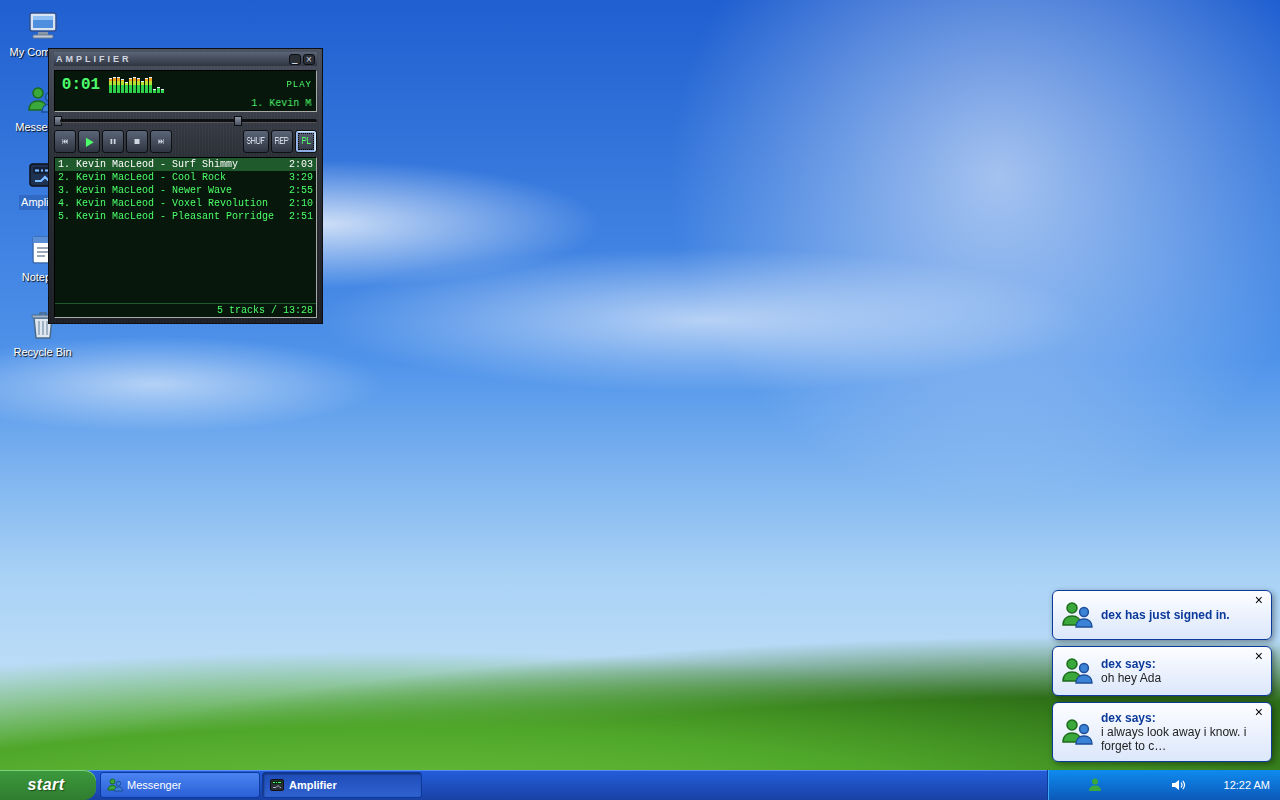
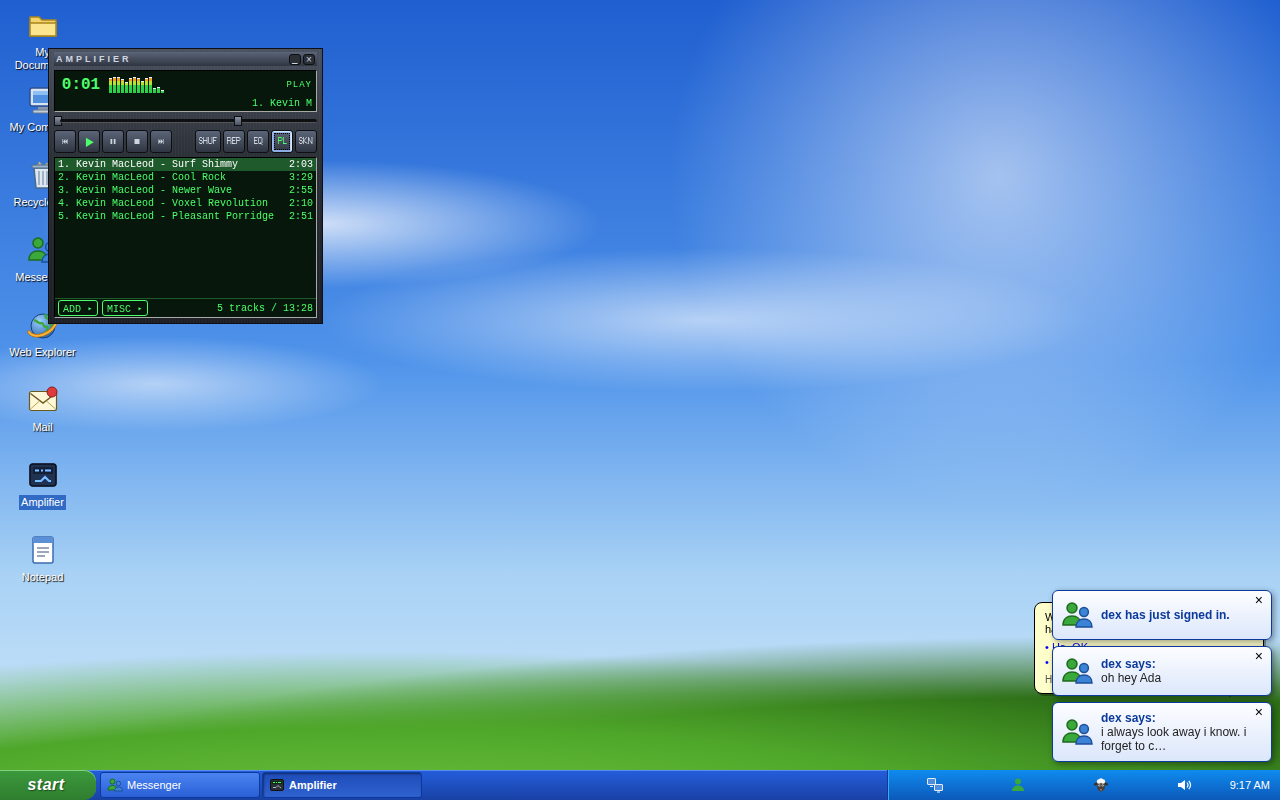
P7-03: README, screenshots, release notes
README v0.2 features + 8-shot screenshot grid, release notes v0.2.0, CREDITS globs for new assets; screenshots spec extended

diff --git a/tests/e2e/screenshots.spec.ts b/tests/e2e/screenshots.spec.ts
@@ -1,5 +1,5 @@
 import { expect, test } from '@playwright/test';
-import { closeNudgeChats, logIn } from './helpers';
+import { closeNudgeChats, go, logIn, openFromStart } from './helpers';
 
 // Regenerates the README images: npx playwright test --grep @screenshots
 const DIR = 'docs/screenshots';
@@ -37,7 +37,7 @@ function toneWav(seconds: number): Buffer {
 }
 
 test('README screenshots @screenshots', async ({ page }) => {
-  test.setTimeout(90_000);
+  test.setTimeout(180_000);
 
   const wav = toneWav(60);
   await page.route('**/music/*.mp3', (route) =>
@@ -53,6 +53,11 @@ test('README screenshots @screenshots', async ({ page }) => {
   await logIn(page);
   await page.mouse.move(900, 700);
   await page.screenshot({ path: `${DIR}/desktop.png` });
+
+  // Stapley's greeting would sit over every later shot.
+  const stapley = page.locator('[data-assistant-balloon]');
+  await expect(stapley).toContainText("I'm Stapley", { timeout: 10_000 });
+  await stapley.getByRole('button', { name: 'No thanks' }).click();
 
   await page.getByRole('option', { name: 'Messenger' }).dblclick();
   await page.getByRole('button', { name: 'Sign in' }).click();
@@ -79,4 +84,62 @@ test('README screenshots @screenshots', async ({ page }) => {
   await expect(amp.getByTestId('playlist')).toBeVisible();
   await page.mouse.move(900, 700);
   await page.screenshot({ path: `${DIR}/amplifier.png` });
+
+  await amp.getByRole('button', { name: 'Close' }).click();
+
+  // Web Explorer on the Searchly homepage, then a Spaceport profile.
+  // Messenger's sign-in already dialed up, so the browser opens online.
+  await page.getByRole('option', { name: 'Web Explorer' }).dblclick();
+  const browser = page.getByRole('region', { name: /Web Explorer$/ });
+  await expect(
+    browser.getByRole('button', { name: 'Searchly Search' }),
+  ).toBeVisible();
+  await page.mouse.move(900, 700);
+  await page.waitForTimeout(500);
+  await page.screenshot({ path: `${DIR}/browser.png` });
+  await go(browser, 'spaceport.example/jess');
+  await page.mouse.move(900, 700);
+  await page.waitForTimeout(500);
+  await page.screenshot({ path: `${DIR}/spaceport.png` });
+  await browser.getByRole('button', { name: 'Close' }).click();
+
+  // Paint with a small drawing.
+  await openFromStart(page, 'Paint');
+  const paint = page.getByRole('region', { name: /Paint$/ });
+  const canvas = paint.getByRole('img', { name: 'Picture' });
+  const box = (await canvas.boundingBox())!;
+  await paint.getByRole('button', { name: 'Color #ff0000' }).click();
+  await paint.getByRole('button', { name: 'Rectangle', exact: true }).click();
+  await paint.getByRole('button', { name: 'Fill only' }).click();
+  await page.mouse.move(box.x + 40, box.y + 60);
+  await page.mouse.down();
+  await page.mouse.move(box.x + 160, box.y + 140, { steps: 4 });
+  await page.mouse.up();
+  await paint.getByRole('button', { name: 'Ellipse', exact: true }).click();
+  await paint.getByRole('button', { name: 'Color #0000ff' }).click();
+  await page.mouse.move(box.x + 120, box.y + 100);
+  await page.mouse.down();
+  await page.mouse.move(box.x + 260, box.y + 190, { steps: 4 });
+  await page.mouse.up();
+  await page.mouse.move(900, 700);
+  await page.screenshot({ path: `${DIR}/paint.png` });
+  await paint.getByRole('button', { name: 'Close' }).click();
+  await page.getByRole('button', { name: 'No', exact: true }).click();
+
+  // Mines after the first click opens a patch of the board.
+  await openFromStart(page, 'Mines');
+  const mines = page.getByRole('region', { name: /Mines$/ });
+  const field = mines.getByRole('group', { name: 'Mine field' });
+  await field.locator('[data-index="40"]').click();
+  await page.mouse.move(900, 700);
+  await page.screenshot({ path: `${DIR}/mines.png` });
+  await mines.getByRole('button', { name: 'Close' }).click();
+
+  // Hen Hunt mid-round.
+  await openFromStart(page, 'Hen Hunt');
+  const hen = page.getByRole('region', { name: /Hen Hunt$/ });
+  await hen.getByRole('button', { name: 'Play' }).click();
+  await expect(hen.getByRole('img', { name: /Hen Hunt field/ })).toBeVisible();
+  await page.waitForTimeout(2500);
+  await page.screenshot({ path: `${DIR}/henhunt.png` });
 });

diff --git a/CREDITS.md b/CREDITS.md
@@ -9,12 +9,14 @@ No Microsoft, MSN, Winamp, MySpace or Netlog logos, icons, sounds, wallpapers, s
 
 Every file in `src/assets/` and `public/` that was not written by the project gets a row in the table. Self-made assets are listed once as "original work".
 
-| File                                                                  | Source                                                                                                | Author                    | License                                                                                                                                                                        |
-| --------------------------------------------------------------------- | ----------------------------------------------------------------------------------------------------- | ------------------------- | ------------------------------------------------------------------------------------------------------------------------------------------------------------------------------ |
-| `src/assets/icons/{mycomputer,notepad,recyclebin,dialup,browser,paint,photobooth,henhunt,pinball,wrecker}-{16,32}.svg` | This repository                                                                                       | still-online contributors | original work                                                                                                                                                                  |
-| `src/assets/emoticons/*.svg`                                          | This repository                                                                                       | still-online contributors | original work                                                                                                                                                                  |
-| `public/music/surf-shimmy.mp3`                                        | [incompetech.com](https://incompetech.com/music/royalty-free/mp3-royaltyfree/Surf%20Shimmy.mp3)       | Kevin MacLeod             | CC BY 4.0: `"Surf Shimmy" by Kevin MacLeod (incompetech.com), licensed under Creative Commons: By Attribution 4.0 License, https://creativecommons.org/licenses/by/4.0/`       |
-| `public/music/cool-rock.mp3`                                          | [incompetech.com](https://incompetech.com/music/royalty-free/mp3-royaltyfree/Cool%20Rock.mp3)         | Kevin MacLeod             | CC BY 4.0: `"Cool Rock" by Kevin MacLeod (incompetech.com), licensed under Creative Commons: By Attribution 4.0 License, https://creativecommons.org/licenses/by/4.0/`         |
-| `public/music/newer-wave.mp3`                                         | [incompetech.com](https://incompetech.com/music/royalty-free/mp3-royaltyfree/Newer%20Wave.mp3)        | Kevin MacLeod             | CC BY 4.0: `"Newer Wave" by Kevin MacLeod (incompetech.com), licensed under Creative Commons: By Attribution 4.0 License, https://creativecommons.org/licenses/by/4.0/`        |
-| `public/music/voxel-revolution.mp3`                                   | [incompetech.com](https://incompetech.com/music/royalty-free/mp3-royaltyfree/Voxel%20Revolution.mp3)  | Kevin MacLeod             | CC BY 4.0: `"Voxel Revolution" by Kevin MacLeod (incompetech.com), licensed under Creative Commons: By Attribution 4.0 License, https://creativecommons.org/licenses/by/4.0/`  |
-| `public/music/pleasant-porridge.mp3`                                  | [incompetech.com](https://incompetech.com/music/royalty-free/mp3-royaltyfree/Pleasant%20Porridge.mp3) | Kevin MacLeod             | CC BY 4.0: `"Pleasant Porridge" by Kevin MacLeod (incompetech.com), licensed under Creative Commons: By Attribution 4.0 License, https://creativecommons.org/licenses/by/4.0/` |
+| File                                                                                                                                                                    | Source                                                                                                | Author                    | License                                                                                                                                                                        |
+| ----------------------------------------------------------------------------------------------------------------------------------------------------------------------- | ----------------------------------------------------------------------------------------------------- | ------------------------- | ------------------------------------------------------------------------------------------------------------------------------------------------------------------------------ |
+| `src/assets/icons/*.svg` (every app, folder, file-type and recycle-bin icon, 16 and 32 px)                                                                              | This repository                                                                                       | still-online contributors | original work                                                                                                                                                                  |
+| `src/os/startmenu/avatar.svg` (default user picture)                                                                                                                    | This repository                                                                                       | still-online contributors | original work                                                                                                                                                                  |
+| Wallpapers, screensavers, Amplifier skins, procedural photos, game art, desktop pet, Stapley and all sounds (`src/os/wallpapers/`, `src/os/screensaver/`, `src/apps/*`) | This repository                                                                                       | still-online contributors | original work (CSS, canvas drawing and Web Audio synthesis, no external files)                                                                                                 |
+| `src/assets/emoticons/*.svg`                                                                                                                                            | This repository                                                                                       | still-online contributors | original work                                                                                                                                                                  |
+| `public/music/surf-shimmy.mp3`                                                                                                                                          | [incompetech.com](https://incompetech.com/music/royalty-free/mp3-royaltyfree/Surf%20Shimmy.mp3)       | Kevin MacLeod             | CC BY 4.0: `"Surf Shimmy" by Kevin MacLeod (incompetech.com), licensed under Creative Commons: By Attribution 4.0 License, https://creativecommons.org/licenses/by/4.0/`       |
+| `public/music/cool-rock.mp3`                                                                                                                                            | [incompetech.com](https://incompetech.com/music/royalty-free/mp3-royaltyfree/Cool%20Rock.mp3)         | Kevin MacLeod             | CC BY 4.0: `"Cool Rock" by Kevin MacLeod (incompetech.com), licensed under Creative Commons: By Attribution 4.0 License, https://creativecommons.org/licenses/by/4.0/`         |
+| `public/music/newer-wave.mp3`                                                                                                                                           | [incompetech.com](https://incompetech.com/music/royalty-free/mp3-royaltyfree/Newer%20Wave.mp3)        | Kevin MacLeod             | CC BY 4.0: `"Newer Wave" by Kevin MacLeod (incompetech.com), licensed under Creative Commons: By Attribution 4.0 License, https://creativecommons.org/licenses/by/4.0/`        |
+| `public/music/voxel-revolution.mp3`                                                                                                                                     | [incompetech.com](https://incompetech.com/music/royalty-free/mp3-royaltyfree/Voxel%20Revolution.mp3)  | Kevin MacLeod             | CC BY 4.0: `"Voxel Revolution" by Kevin MacLeod (incompetech.com), licensed under Creative Commons: By Attribution 4.0 License, https://creativecommons.org/licenses/by/4.0/`  |
+| `public/music/pleasant-porridge.mp3`                                                                                                                                    | [incompetech.com](https://incompetech.com/music/royalty-free/mp3-royaltyfree/Pleasant%20Porridge.mp3) | Kevin MacLeod             | CC BY 4.0: `"Pleasant Porridge" by Kevin MacLeod (incompetech.com), licensed under Creative Commons: By Attribution 4.0 License, https://creativecommons.org/licenses/by/4.0/` |

diff --git a/README.md b/README.md
@@ -2,7 +2,7 @@
 
 A browser-based nostalgia simulator recreating Windows XP and the social internet of 2007 through MSN, Netlog, MySpace, Winamp, and a living fictional desktop.
 
-> **v0.1 — playable MVP.** Play it now: **<https://drilonrecica.github.io/still-online/>**
+> **v0.2 — the living internet.** Play it now: **<https://drilonrecica.github.io/still-online/>**
 
 ![The still-online desktop](docs/screenshots/desktop.png)
 
@@ -14,21 +14,57 @@ It isn't meant to be a static museum piece. The desktop is meant to feel *lived 
 
 ## What's in it
 
-- **Windows XP–style desktop**: boot and login screens, start menu, taskbar, draggable and resizable windows, desktop icons and an original wallpaper
-- **Messenger**: an MSN-style client with six fictional friends, statuses, personal messages, emoticons, nudges, sign-in toasts and a "now playing" line. Conversations continue over time, and friends waiting for your reply are marked and flash in the taskbar
-- **Amplifier**: a Winamp-style music player with an original skin, playlist, seek and volume, shuffle/repeat and a visualizer
-- **Notepad** and the usual desktop furniture
+### Desktop
 
-| Messenger | Amplifier |
+- **Windows XP–style shell**: boot and login screens, Start menu with an All Programs flyout, taskbar and tray (mute, network, clock), draggable/resizable windows, desktop icons, synthesized system sounds
+- **A world that moves on**: the in-game day advances after a shutdown or a new real date, and each day brings new chats, mail, guestbook entries and profile comments (days 1–5 are scripted; later days keep the day-5 state)
+- **Display Properties**: eleven procedurally drawn wallpapers (nine homages and two easter eggs), Blue / Olive / Silver appearance, and screensavers (Pipes, Flying Panes, Marquee, My Pictures Slideshow)
+- **Explorer**: My Documents, My Pictures and My Music on a persistent virtual file system, plus a Recycle Bin you can restore from
+- **Balloon tips**, a dial-up connection dialog with a synthesized modem handshake, and a **Disk Cleanup** that scans forever and frees nothing
+- **Notepad** that opens and saves files in My Documents
+
+### Messenger
+
+- Six fictional friends with statuses, personal messages, emoticons (including your own, made from your pictures), nudges, winks, sign-in toasts and a "now playing" line
+- Conversations continue over days; friends react to the music you play and to your game scores
+- Away messages with a "while you were away" summary, a per-contact **Message History** and display pictures from My Pictures
+
+### Internet
+
+- **Web Explorer** with history, favorites and a fully fictional, local web: **Searchly** (search over every page), **Spaceport** profiles for each friend and you (Top 8, comment wall, profile song), a cursed 2003 fan page, a gossip blog, a school site and more
+- **Mail** with a new batch of messages per day: chain letters, spam, family and friends, with replies to what you send
+- **TuneMole**, a fake peer-to-peer client with slow, jittery downloads that lands tracks in My Music and the Amplifier
+
+### Creative
+
+- **Paint**: classic tools, undo, open/save to My Pictures, set as wallpaper or display picture
+- **Snapshot Booth**: webcam photos with filters, or a cartoon avatar if you have no camera. The webcam stays local: nothing is recorded or uploaded, and photos are saved only in this browser
+- **Amplifier**: five CC BY tracks, three skins, windowshade mode, a ten-band equalizer, an editable playlist and a visualizer
+
+### Games and extras
+
+- **Mines**, **Hen Hunt** (a shooting gallery), **Star Pinball** and **Desktop Wrecker** (smash the desktop, then Repair it), each with high scores
+- **Fluff** the desktop sheep and **Stapley**, an original stapler assistant with contextual tips
+
+| Desktop | Messenger |
 | --- | --- |
-| ![Messenger contact list](docs/screenshots/messenger.png) | ![Amplifier with its playlist](docs/screenshots/amplifier.png) |
+| ![The desktop](docs/screenshots/desktop.png) | ![Messenger contact list](docs/screenshots/messenger.png) |
+| **Amplifier** | **Web Explorer** |
+| ![Amplifier with its playlist](docs/screenshots/amplifier.png) | ![Web Explorer on Searchly](docs/screenshots/browser.png) |
+| **Spaceport** | **Paint** |
+| ![A Spaceport profile](docs/screenshots/spaceport.png) | ![Paint with a drawing](docs/screenshots/paint.png) |
+| **Mines** | **Hen Hunt** |
+| ![Mines mid-game](docs/screenshots/mines.png) | ![Hen Hunt mid-round](docs/screenshots/henhunt.png) |
 
 ## Planned
 
-These are not built yet:
+Not built yet:
 
-- **Netlog / MySpace–style profiles**: customizable profile pages, friend lists, comments and profile songs
-- **A living world**: fictional characters and events that change over time, so each visit feels a little different
+- Content beyond day 5: stories for later days currently repeat the day-5 state
+- More friends, sites and games
+- Mobile and touch layouts (small screens only get a notice)
+
+Ideas are welcome in the [issues](https://github.com/drilonrecica/still-online/issues).
 
 ## Run locally
 

diff --git a/docs/release-notes-v0.2.0.md b/docs/release-notes-v0.2.0.md
@@ -1,0 +1,36 @@
+# still-online v0.2.0
+
+The living internet: v0.1's desktop and Messenger grow into a small, fully local 2007, with a web to browse, mail to read, things to make and games to play, and days that actually pass.
+
+## Highlights
+
+- **Days pass.** Shut down and come back, or return on a new real date, and the world moves on: new chats, mail, guestbook entries and profile comments for days 1–5.
+- **A fictional web.** Web Explorer, Searchly, Spaceport profiles, a cursed fan page, a gossip blog and a school site, all local and all invented.
+- **Mail, TuneMole, Paint, Snapshot Booth and four games**, plus Fluff the sheep and Stapley.
+- **A much richer Amplifier**: three skins, windowshade, a 10-band equalizer and an editable playlist.
+
+## What's new by area
+
+- **Desktop**: All Programs flyout with folders, Explorer with My Documents/Pictures/Music on a persistent virtual file system, a restorable Recycle Bin, balloon tips, a dial-up dialog with a synthesized handshake, Disk Cleanup, and the day shown on boot and in the clock tooltip.
+- **Display Properties**: eleven procedural wallpapers (nine homages, two easter eggs), Blue/Olive/Silver appearance, and the Pipes, Flying Panes, Marquee and Slideshow screensavers.
+- **Messenger**: day-aware scripts for all six friends, away messages and a "while you were away" summary, Message History, display pictures, six winks, more built-in emoticons and custom ones from your pictures, and reactions to both your music and your game scores.
+- **Internet**: Web Explorer with history and favorites, Searchly, Spaceport (a profile per friend plus yours), the cursed fan page, a gossip blog, a school site, Mail with per-day content, and TuneMole.
+- **Creative**: Paint, and Snapshot Booth with eight filters and a cartoon fallback. The webcam stays local: nothing is uploaded, and the camera stops when the window closes.
+- **Amplifier**: skins, windowshade, equalizer with presets, playlist editing and a "Burn CD" joke.
+- **Games and extras**: Mines, Hen Hunt, Star Pinball, Desktop Wrecker, Fluff and Stapley, each with persisted scores or settings where it makes sense.
+- **Quality**: axe-checked accessibility for the new apps with keyboard paths, lazy-loaded apps with an initial JS budget of 250 KB gzip, and canvases that pause when hidden or minimized.
+
+## Known issues
+
+- Stories cover days 1–5; later days keep the day-5 state.
+- Fluff can't be dropped onto a title bar at the very top of the screen.
+- Mines dialogs are in-window overlays and feel cramped on Beginner.
+- Pinball and Hen Hunt simulations are unit-tested, but scoring outcomes aren't asserted end to end in a browser.
+- Not designed for phones or tablets; small screens only get a notice.
+- Audio and sounds were verified by tests, not by ear, in the automated reviews.
+
+## Credits
+
+Everything is original work or CC0 / CC BY 4.0. Music is by Kevin MacLeod (incompetech.com), CC BY 4.0. Wallpapers, screensavers, skins, photos and game art are drawn procedurally or by hand-written SVG in this repository. Full attributions are in [CREDITS.md](../CREDITS.md).
+
+still-online is a fan-made, non-commercial project and is not affiliated with Microsoft, MySpace, Netlog, Winamp or their owners.

diff --git a/tasks.md b/tasks.md
@@ -331,8 +331,8 @@ Tests sit next to the code as `*.test.ts(x)`. Use path alias `@/` → `src/`.
 | ID | Task | Deps | Status | Model | Owner | Mode | Verify | Timeout | Acceptance | Spec |
 |---|---|---|---|---|---|---|---|---|---|---|
 | P7-01 | **Accessibility pass** — axe checks for every new app, plus keyboard paths through the main ones. | P6-G | done | sonnet | agent | — | e2e | — | No serious/critical axe violations in the new apps; keyboard paths documented. | §P7-01 |
-| P7-02 | **Performance pass** — lazy loading, the initial bundle budget, and canvases that pause when hidden. | P6-G | in progress | sonnet | agent | — | e2e | — | Initial JS ≤ 250 KB gzip; every app chunk lazy; hidden/minimized canvases stop animating (tested). | §P7-02 |
-| P7-03 | **README, screenshots, release notes** — update the README and screenshots, and write `docs/release-notes-v0.2.0.md`. | P7-01, P7-02 | blocked | sonnet | agent | — | — | — | README lists v0.2 features truthfully; a screenshot grid; release notes drafted; CREDITS complete. | §P7-03 |
+| P7-02 | **Performance pass** — lazy loading, the initial bundle budget, and canvases that pause when hidden. | P6-G | done | sonnet | agent | — | e2e | — | Initial JS ≤ 250 KB gzip; every app chunk lazy; hidden/minimized canvases stop animating (tested). | §P7-02 |
+| P7-03 | **README, screenshots, release notes** — update the README and screenshots, and write `docs/release-notes-v0.2.0.md`. | P7-01, P7-02 | in progress | sonnet | agent | — | — | — | README lists v0.2 features truthfully; a screenshot grid; release notes drafted; CREDITS complete. | §P7-03 |
 | P7-G | **Release-ready gate (self-review)** — follow "Task specs → Gate procedure"; full playthrough over 3 days. **Do not tag, push or release.** | P7-01…P7-03 | blocked | sonnet | agent | — | e2e | — | verify + e2e pass; `docs/review/P7.md`; nothing pushed or tagged. | §Gate |
 
 ---
